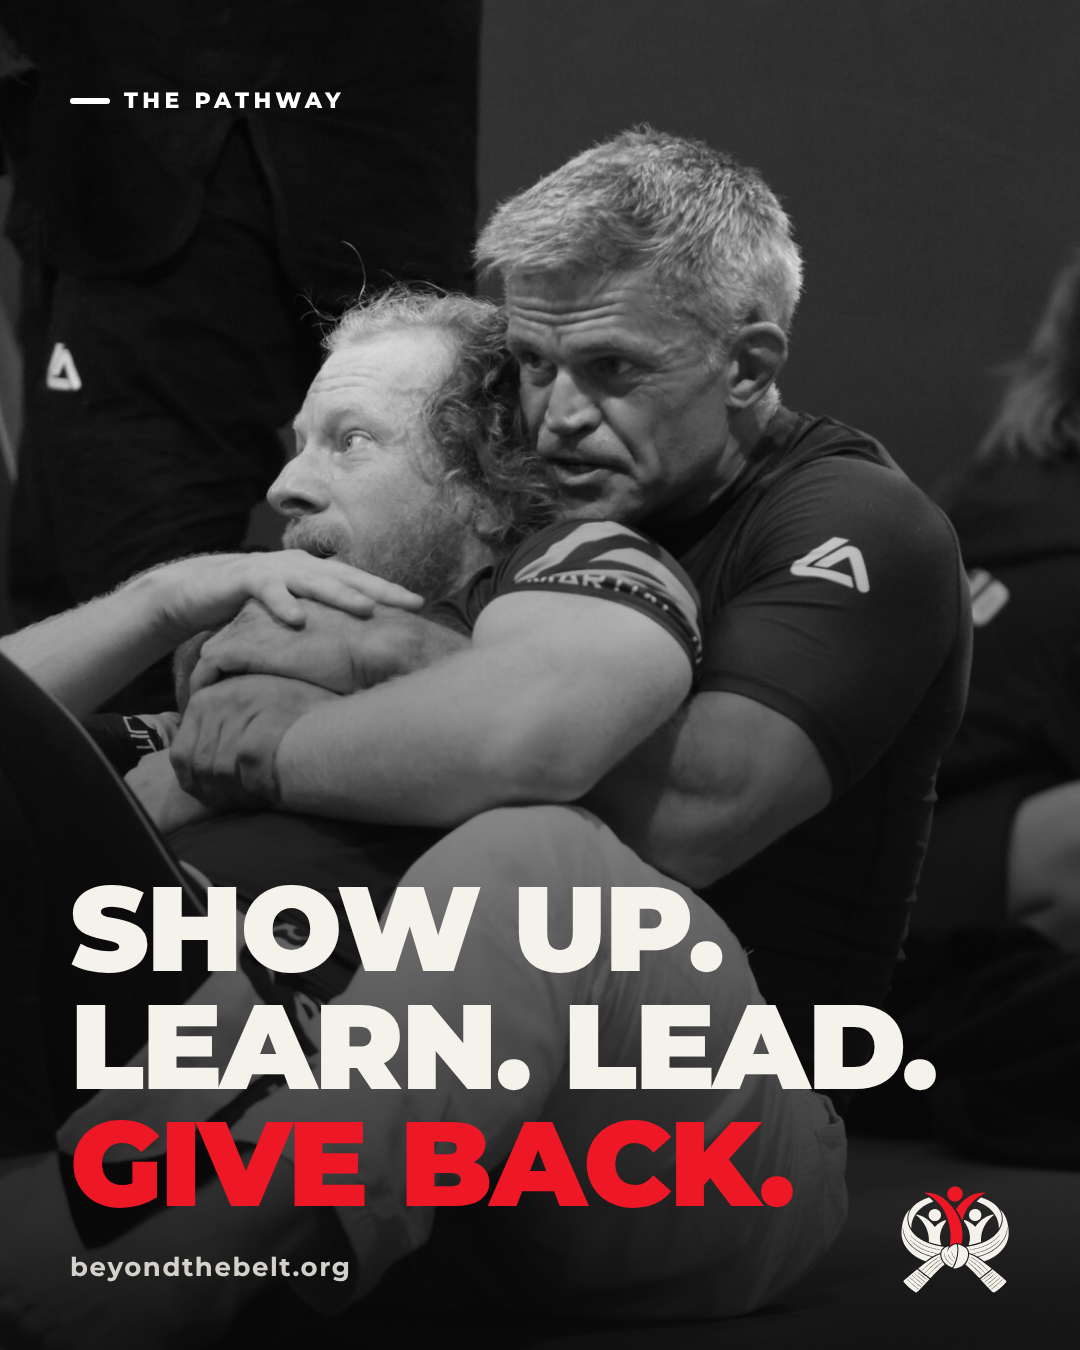
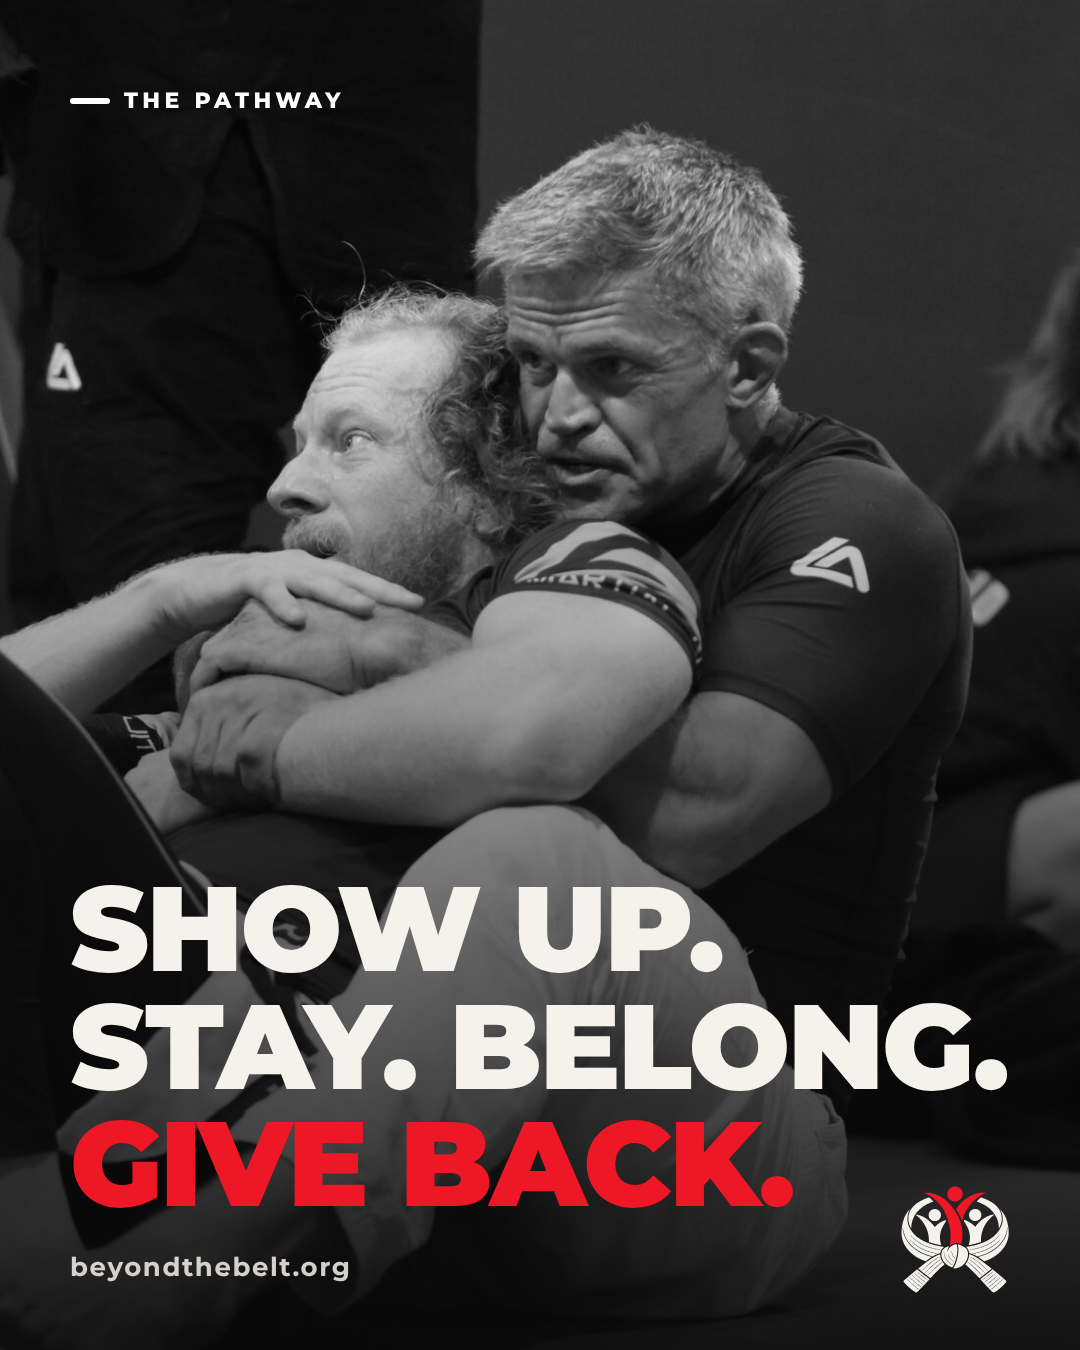
Reposition copy around financial support to keep people training
Claude-Session: https://claude.ai/code/session_01BxUCDy4vFvZAv95Lyd49Mm

Changed region(s): [[0.0611, 0.7467, 0.9472, 0.8089]]

diff --git a/index.html b/index.html
@@ -4,7 +4,7 @@
   <meta charset="utf-8">
   <meta name="viewport" content="width=device-width, initial-scale=1">
   <title>Beyond the Belt | A charity built on the mats</title>
-  <meta name="description" content="Beyond the Belt is a charity set up by Paul Busby and members of RGA Academy in Marlow, using martial arts training, mentoring and community to build confidence and resilience in people of all ages and backgrounds.">
+  <meta name="description" content="Beyond the Belt is a charity set up by Paul Busby and members of RGA Academy in Marlow, providing financial support to keep people training, because community on the mats helps with mental health, loneliness and confidence.">
   <meta name="theme-color" content="#080808">
   <link rel="canonical" href="https://beyondthebelt.org/">
   <link rel="icon" href="assets/favicon.svg" type="image/svg+xml">
@@ -30,7 +30,7 @@
     "name": "Beyond the Belt",
     "url": "https://beyondthebelt.org/",
     "logo": "https://beyondthebelt.org/assets/apple-touch-icon.png",
-    "description": "A charity set up by Paul Busby and members of RGA Academy in Marlow, using martial arts training, mentoring and community to build confidence and resilience in people of all ages and backgrounds.",
+    "description": "A charity set up by Paul Busby and members of RGA Academy in Marlow, providing financial support to keep people training, because community on the mats helps with mental health, loneliness and confidence.",
     "founder": { "@type": "Person", "name": "Paul Busby" },
     "address": { "@type": "PostalAddress", "addressLocality": "Marlow", "addressRegion": "Buckinghamshire", "addressCountry": "GB" }
   }
@@ -48,7 +48,7 @@
       <button class="menu-toggle" type="button" aria-expanded="false" aria-controls="nav" aria-label="Menu"><span></span></button>
       <nav class="nav" id="nav" aria-label="Main">
         <a href="#mission">Our mission</a>
-        <a href="#what-we-do">What we do</a>
+        <a href="#what-we-do">How we help</a>
         <a href="#pathway">The pathway</a>
         <a href="#get-involved">Get involved</a>
         <a href="#contact">Contact</a>
@@ -65,7 +65,7 @@
         <div>
           <span class="eyebrow">A charity built on the mats</span>
           <h1>Life is bigger <em>than the belt.</em></h1>
-          <p class="lede">Beyond the Belt is a charity set up by Paul Busby and members of RGA Academy in Marlow. We use training, mentoring and a strong community to help people of every age and background build confidence, resilience and a sense of belonging, on the mats and far beyond them.</p>
+          <p class="lede">Beyond the Belt is a charity set up by Paul Busby and members of RGA Academy in Marlow. We provide financial support to keep people training, because the community and support of training partners does so much for mental health, loneliness, social connection and confidence.</p>
           <div class="hero-actions">
             <a class="btn btn-primary" href="#donate">Donate</a>
             <a class="btn btn-ghost" href="#get-involved">Get involved</a>
@@ -85,12 +85,12 @@
       <div class="wrap">
         <div>
           <span class="eyebrow">Our mission</span>
-          <p class="big">A belt shows what you have learned. We care about <mark>who you become</mark> while you learn it.</p>
+          <p class="big">Nobody should have to leave the mats because of money. Your training partners are <mark>your people.</mark></p>
         </div>
         <div class="mission-copy">
-          <p>Martial arts teach far more than technique. Turning up when it is hard, losing and trying again, trusting a training partner and being trusted back: those lessons stay with you long after the grading.</p>
-          <p>Beyond the Belt exists so that anyone who could benefit from that experience can have it, whatever their age or background and whether or not they can afford the fees.</p>
-          <p>Our sessions are led by experienced coaches in the welcoming environment of RGA Academy, where it all started.</p>
+          <p>Martial arts teach far more than technique. Training partners become a community: someone who notices when you are missing, someone to talk to, a reason to get out of the house. For many people that makes a real difference to their mental health, loneliness, social life and confidence.</p>
+          <p>But training costs money, and when money gets tight, the mat is often the first thing to go, just when the community matters most.</p>
+          <p>Beyond the Belt provides financial support to keep people of all ages and backgrounds training, and to help new people through the door.</p>
         </div>
       </div>
     </section>
@@ -108,30 +108,30 @@
     <section class="programmes" id="what-we-do">
       <div class="wrap">
         <div class="section-head">
-          <span class="eyebrow">What we do</span>
-          <h2>Training with a purpose</h2>
-          <p>Every programme is built around the same idea: use the discipline and community of martial arts to help people of all ages thrive.</p>
+          <span class="eyebrow">How we help</span>
+          <h2>Keeping people on the mats</h2>
+          <p>Training is better with other people. We make sure money is not what keeps someone away.</p>
         </div>
         <div class="cards">
           <article class="card">
             <div class="num">01</div>
-            <h3>Free &amp; supported places</h3>
-            <p>Funded places in regular classes, including kit and gradings, for children, adults and families who would otherwise miss out.</p>
+            <h3>Help with fees</h3>
+            <p>Financial support towards training costs, so people can start, or keep going, when money is tight.</p>
           </article>
           <article class="card">
             <div class="num">02</div>
-            <h3>Confidence &amp; resilience</h3>
-            <p>Mentoring woven into training, helping people of any age handle pressure, setbacks and big emotions in a healthy way.</p>
+            <h3>Stay on the mats</h3>
+            <p>Hard times are when routine and good people matter most. We help people stay rather than step away.</p>
           </article>
           <article class="card">
             <div class="num">03</div>
-            <h3>Workshops &amp; outreach</h3>
-            <p>Taster sessions and anti-bullying and personal-safety workshops for schools, workplaces, community groups and charities.</p>
+            <h3>Community that cares</h3>
+            <p>Training partners offer connection, encouragement and friendship, which helps with loneliness, mental health and confidence.</p>
           </article>
           <article class="card">
             <div class="num">04</div>
             <h3>Community days</h3>
-            <p>Open sessions, family events and fundraisers that bring the whole neighbourhood onto the mats.</p>
+            <p>Open sessions, family events and fundraisers that bring people together and keep the support going.</p>
           </article>
         </div>
       </div>
@@ -142,13 +142,13 @@
         <div class="section-head">
           <span class="eyebrow">The pathway</span>
           <h2>From first class to giving back</h2>
-          <p>Progress is not only measured in stripes. We support each person along a path that ends with them helping the next one through the door.</p>
+          <p>Training is the start. Staying, belonging and eventually helping the next person through the door is what changes lives.</p>
         </div>
         <ol class="steps">
           <li class="step"><div class="bar"></div><h3>Show up</h3><p>A warm welcome, no experience needed and no pressure. The hardest step is walking in.</p></li>
-          <li class="step"><div class="bar"></div><h3>Learn</h3><p>Technique, discipline and teamwork, at a pace that suits the individual.</p></li>
-          <li class="step"><div class="bar"></div><h3>Lead</h3><p>Taking responsibility: helping with warm-ups, mentoring newcomers, setting an example.</p></li>
-          <li class="step"><div class="bar"></div><h3>Give back</h3><p>Volunteering, coaching pathways and community projects that put their skills to work.</p></li>
+          <li class="step"><div class="bar"></div><h3>Keep going</h3><p>Support with the cost, so a tough month does not mean giving up training.</p></li>
+          <li class="step"><div class="bar"></div><h3>Belong</h3><p>Training partners who become friends, and a place that notices when you are missing.</p></li>
+          <li class="step"><div class="bar"></div><h3>Give back</h3><p>Helping the next person: encouraging newcomers, volunteering, fundraising.</p></li>
         </ol>
       </div>
     </section>
@@ -163,7 +163,7 @@
         <div class="cards">
           <article class="card feature">
             <h3>Give</h3>
-            <p>A single gift or a monthly donation keeps places free and the doors open.</p>
+            <p>A single gift or a monthly donation helps keep people training.</p>
             <a class="btn btn-primary" href="#donate">Donate</a>
           </article>
           <article class="card">
@@ -180,8 +180,8 @@
 
         <div class="donate-panel" id="donate">
           <div>
-            <h3>Back the whole community</h3>
-            <p>Your support funds places, equipment and mentoring for people of all ages who need a place to belong.</p>
+            <h3>Help someone stay on the mats</h3>
+            <p>Your support covers training costs for people who would otherwise have to stop, or never start.</p>
           </div>
           <!-- TODO: replace href with the live donation page (JustGiving, Stripe, GoFundMe, etc.) -->
           <a class="btn" href="#contact" data-donate-link>Donate now</a>
@@ -196,8 +196,8 @@
         <div>
           <span class="eyebrow">Our story</span>
           <h2>Born at RGA Academy</h2>
-          <p>Beyond the Belt was set up by Paul Busby and members of RGA Academy in Marlow. They are coaches, students, parents and friends who have seen first-hand what time on the mats can do for a person of any age.</p>
-          <p>The charity lets them take that further, opening the door to people who need it most and backing it with structure and care.</p>
+          <p>Beyond the Belt was set up by Paul Busby and members of RGA Academy in Marlow. They are coaches, students, parents and friends who have seen first-hand what training partners and community can do for people.</p>
+          <p>The charity lets them take that further, making sure money is not the reason someone loses their place on the mats.</p>
           <p class="pull">Two figures, one belt, and a path that leads well beyond the dojo.</p>
         </div>
       </div>
@@ -208,7 +208,7 @@
         <div>
           <span class="eyebrow">Contact</span>
           <h2>Say hello</h2>
-          <p>Want to refer someone, volunteer, fundraise or partner with us? Send us a message and we will come back to you.</p>
+          <p>Need support to keep training, or want to volunteer, fundraise or partner with us? Send us a message and we will come back to you.</p>
           <ul class="contact-list">
             <li><strong>Email</strong><a href="mailto:hello@beyondthebelt.org" data-contact-email>hello@beyondthebelt.org</a></li>
             <li><strong>Based at</strong>RGA Academy, Marlow, Buckinghamshire</li>
@@ -222,6 +222,7 @@
               <option>Make a donation</option>
               <option>Volunteer</option>
               <option>Partner with Beyond the Belt</option>
+              <option>Ask about financial support</option>
               <option>Refer someone</option>
               <option>Something else</option>
             </select>
@@ -246,7 +247,7 @@
           <h4>Explore</h4>
           <ul>
             <li><a href="#mission">Our mission</a></li>
-            <li><a href="#what-we-do">What we do</a></li>
+            <li><a href="#what-we-do">How we help</a></li>
             <li><a href="#pathway">The pathway</a></li>
             <li><a href="#get-involved">Get involved</a></li>
           </ul>

diff --git a/social/build.js b/social/build.js
@@ -95,7 +95,7 @@ add('post-01-welcome-1080x1350', 1080, 1350, 'ink stitch',
 add('post-02-donate-1080x1350', 1080, 1350, 'red stitch',
   `<div class="abs" style="left:70px;top:90px"><div class="eyebrow">Donate</div></div>` +
   `<h1 class="abs" style="left:70px;top:210px;font-size:128px">Give someone a place to <em>belong.</em></h1>` +
-  `<p class="abs" style="left:70px;top:860px;width:800px;font-size:36px;line-height:1.4;font-weight:500">Your gift keeps places free and the doors open at the academy.</p>` +
+  `<p class="abs" style="left:70px;top:860px;width:800px;font-size:36px;line-height:1.4;font-weight:500">Your gift helps keep people training, and keeps them connected.</p>` +
   `<div class="abs" style="left:70px;top:1030px"><span class="pill">Donate now</span></div>` + foot());
 add('post-03-values-1080x1350', 1080, 1350, 'ink stitch',
   `<div class="abs" style="left:70px;top:90px"><div class="eyebrow">What we stand for</div></div>` +
@@ -139,7 +139,11 @@ add('post-05-photo-welcome-1080x1350', 1080, 1350, 'ink',
 add('post-06-photo-pathway-1080x1350', 1080, 1350, 'ink',
   photo('training-hold.jpg', '60% 30%') + fade(35) +
   `<div class="abs" style="left:70px;top:90px"><div class="eyebrow" style="color:#fff">The pathway</div></div>` +
-  `<h1 class="abs" style="left:70px;top:870px;font-size:120px">Show up.<br>Learn. Lead.<br><em>Give back.</em></h1>` + foot('dark'));
+  `<h1 class="abs" style="left:70px;top:870px;font-size:120px">Show up.<br>Stay. Belong.<br><em>Give back.</em></h1>` + foot('dark'));
+add('post-07-community-1080x1350', 1080, 1350, 'ink',
+  photo('training-group.jpg', '72% 50%') + fade(38) +
+  `<h1 class="abs" style="left:70px;top:780px;font-size:96px">Your training partners are <em>your people.</em></h1>` +
+  `<p class="abs" style="left:70px;top:1100px;width:860px;font-size:32px;line-height:1.4;font-weight:500;color:#e9e6df">We help keep people on the mats, because connection helps with loneliness, confidence and mental health.</p>` + foot('dark'));
 add('story-04-photo-1080x1920', 1080, 1920, 'ink',
   photo('black-belts.jpg', '50% 25%') + fade(40) +
   img(logo.markDark, 'right:70px;top:1540px;width:130px') +

diff --git a/README.md b/README.md
@@ -14,7 +14,7 @@ Static, single-page charity website plus a full set of social media graphics. No
 3. **Donate**: the Donate buttons currently scroll to the contact form. Set the link on the `data-donate-link` button in `index.html` once a JustGiving, Stripe or similar page exists, and update the note beneath it.
 4. **Charity number** and safeguarding policy link in the contact section and footer (search for `[`).
 5. **Social links**: add handles to the footer once accounts exist.
-6. **Copy**: programme descriptions are sensible starting points. Check them against what the charity really does, and add real photos and impact figures when available.
+6. **Copy**: the "How we help" cards are sensible starting points. Add how financial support works (who can apply, how, what it covers) once decided. Check them against what the charity really does, and add real photos and impact figures when available.
 
 ## Hosting
 Hosted on Netlify, which publishes the `main` branch automatically (see `netlify.toml`). There is no build step.

diff --git a/BRAND.md b/BRAND.md
@@ -40,7 +40,7 @@ Warm, direct and proud. Short sentences. Speak to people of all ages and backgro
 | `youtube-banner-2560x1440.png` | YouTube banner (key content sits in the central 1546x423 safe area) |
 | `og-share-1200x630.png` | Link preview image (used by the website) |
 | `post-*-1080x1350.png` | Instagram / Facebook feed posts (4:5) |
-| `post-05/06-photo-*` | Photo posts using the images in `images/` |
+| `post-05/06/07-*` | Photo posts using the images in `images/` |
 | `story-*-1080x1920.png` | Stories and Reels covers (keep text clear of top 250px and bottom 340px) |
 | `template-*` / `story-03-*` | Quote and event templates: edit `TEXT` in `build.js` and re-run |
 
